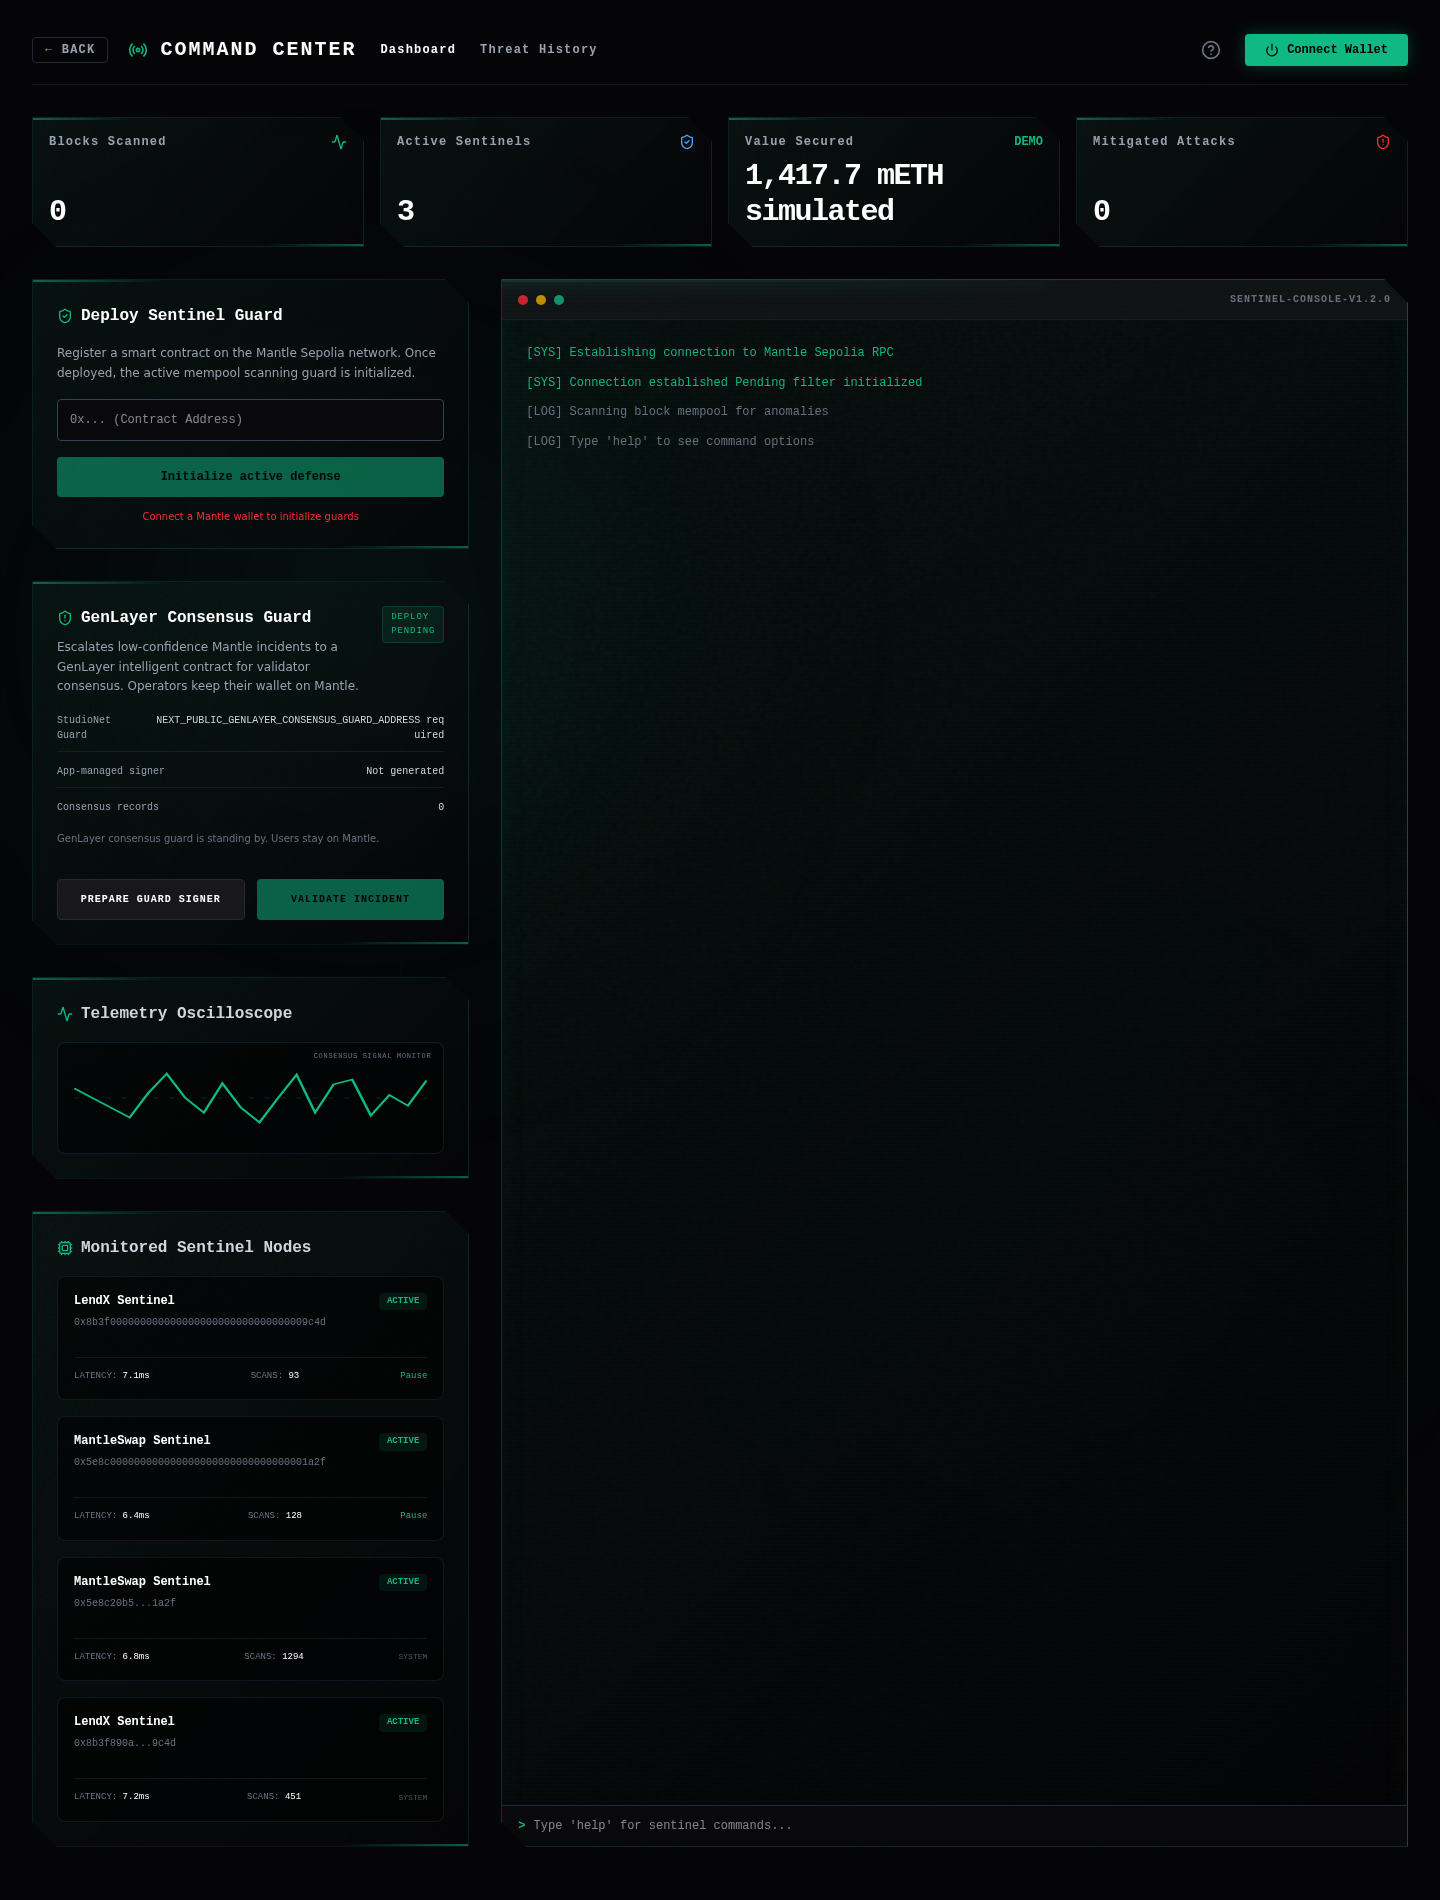
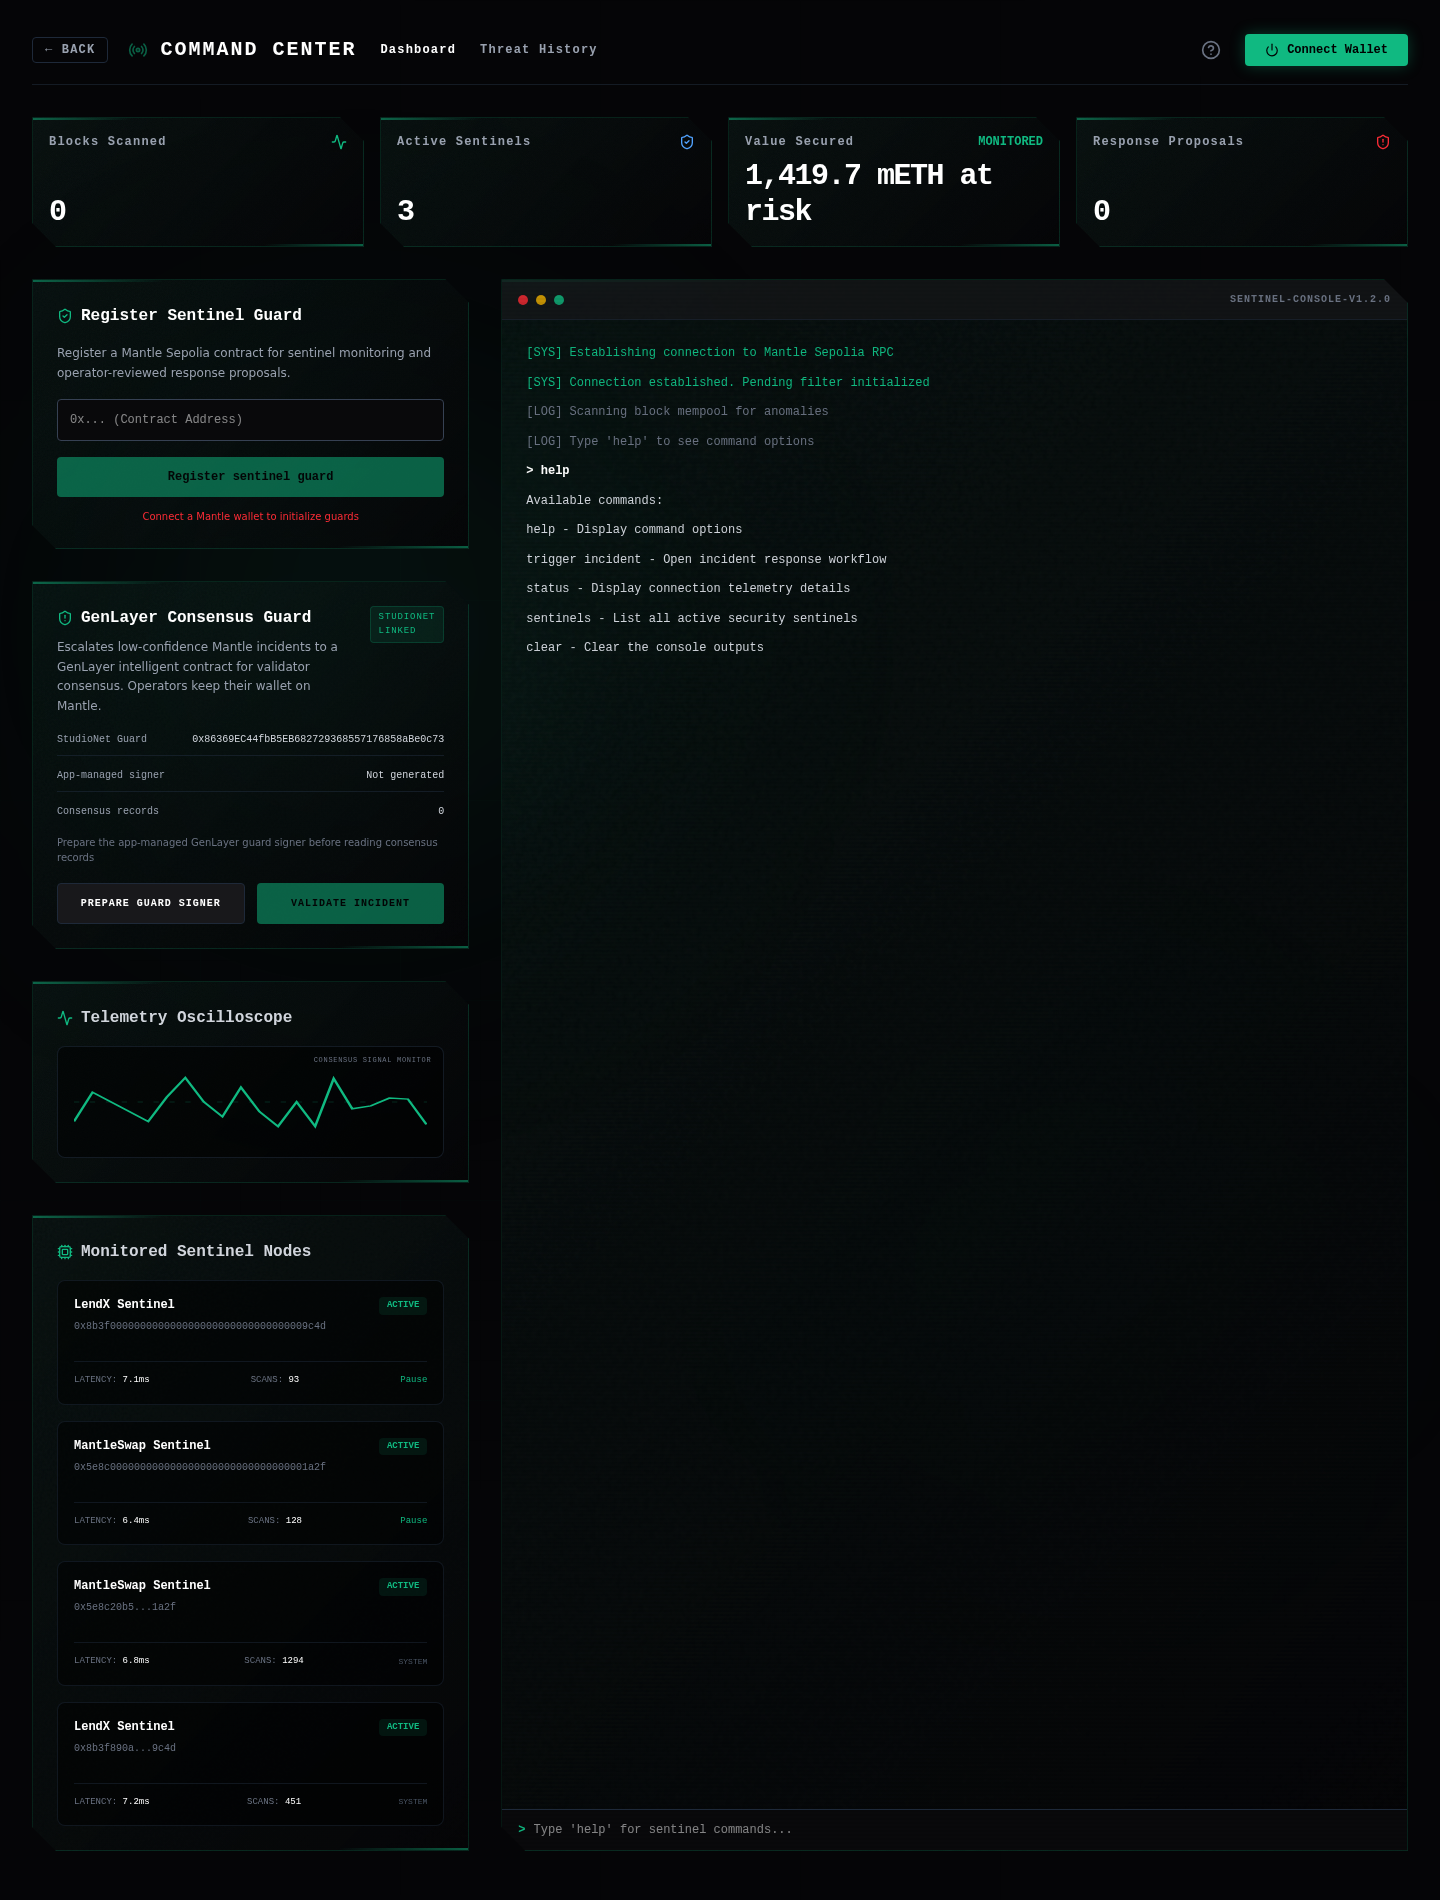
polish: tighten final product presentation

diff --git a/frontend/src/app/page.tsx b/frontend/src/app/page.tsx
@@ -150,15 +150,6 @@ export default function LandingPage() {
   const handleCommandCenterAccess = () => {
     setIsLaunchingCommandCenter(true);
     window.sessionStorage.setItem('breachresponse_launching_command_center', 'true');
-    if (!isConnected) {
-      if (!injectedConnector) return;
-      connect({ connector: injectedConnector });
-      return;
-    }
-    if (!isCorrectNetwork && switchChain) {
-      switchChain({ chainId: mantleSepoliaTestnet.id });
-      return;
-    }
     navigateToAppPath(window.location, DASHBOARD_PATH);
   };
 
@@ -326,7 +317,7 @@ export default function LandingPage() {
               Breach Response
             </h1>
             <p className="text-lg md:text-xl text-gray-300 max-w-2xl mx-auto drop-shadow-[0_2px_4px_rgba(0,0,0,0.8)] font-sans">
-              AI-assisted incident response for Mantle smart contracts
+              AI-assisted incident response for suspicious Mantle contract activity
             </p>
           </motion.div>
 
@@ -410,7 +401,7 @@ export default function LandingPage() {
                   <div>
                     <h3 className="text-white font-bold mb-4 flex items-center gap-2 text-lg"><Shield className="w-5 h-5 text-[#10B981]" /> Defense Matrix</h3>
                     <p className="text-sm text-gray-400 mb-8 leading-relaxed font-sans">
-                      LLM analysis, operator approval, and GenLayer consensus checks are wired for scoped emergency response.
+                      LLM analysis, operator approval, and GenLayer consensus checks turn suspicious activity into scoped response proposals.
                     </p>
                   </div>
                   <button
@@ -441,7 +432,7 @@ export default function LandingPage() {
         <div className="container mx-auto px-6 relative z-10 text-center">
           <h2 className="text-3xl md:text-4xl font-bold text-white mb-6">Pipeline Execution</h2>
           <p className="text-gray-400 font-sans max-w-2xl mx-auto mb-16">
-            Three sequential stages of real-time smart contract defense on Mantle Network
+            Three controlled stages for reviewing suspicious smart contract activity on Mantle
           </p>
         </div>
         <div className="relative grid grid-cols-1 md:grid-cols-3 gap-12 md:gap-8 items-start">
@@ -456,9 +447,9 @@ export default function LandingPage() {
               </svg>
             </div>
             <span className="text-xs text-[#10B981] font-bold tracking-widest mb-2 block uppercase">01 / Monitor</span>
-            <h3 className="text-lg font-bold text-white mb-3">Mempool Scan</h3>
+            <h3 className="text-lg font-bold text-white mb-3">Runtime Signal Scan</h3>
             <p className="text-xs text-gray-400 font-sans leading-relaxed">
-              We monitor the unconfirmed transactions of Mantle Network, inspecting operations before block generation
+              The sentinel watches Mantle RPC activity and flags unusual contract behavior for review
             </p>
           </div>
           <div className="flex flex-col items-center text-center px-4 relative">
@@ -478,7 +469,7 @@ export default function LandingPage() {
               </svg>
             </div>
             <span className="text-xs text-[#10B981] font-bold tracking-widest mb-2 block uppercase">02 / Formulate</span>
-            <h3 className="text-lg font-bold text-white mb-3">AI Formulation</h3>
+            <h3 className="text-lg font-bold text-white mb-3">AI Incident Triage</h3>
             <p className="text-xs text-gray-400 font-sans leading-relaxed">
               If an exploit pattern is identified, the sentinel agent produces a scoped response proposal for operator review
             </p>
@@ -494,10 +485,10 @@ export default function LandingPage() {
                 <rect x="9.5" y="9.5" width="5" height="5" rx="0.5" stroke="currentColor" strokeWidth="1.2" fill="currentColor" fillOpacity="0.2" className="origin-center animate-[ping_2s_cubic-bezier(0,0,0.2,1)_infinite]" />
               </svg>
             </div>
-            <span className="text-xs text-[#10B981] font-bold tracking-widest mb-2 block uppercase">03 / Intercept</span>
-            <h3 className="text-lg font-bold text-white mb-3">Payload Dispatch</h3>
+            <span className="text-xs text-[#10B981] font-bold tracking-widest mb-2 block uppercase">03 / Approve</span>
+            <h3 className="text-lg font-bold text-white mb-3">Approval Routing</h3>
             <p className="text-xs text-gray-400 font-sans leading-relaxed">
-              The mitigation proposal is routed to a wallet, multisig, or approved policy path before execution
+              The response proposal is routed to wallet, multisig, or policy-controlled approval before any execution
             </p>
           </div>
         </div>
@@ -516,8 +507,8 @@ export default function LandingPage() {
               <div className="w-12 h-12 bg-gray-900 rounded-xl flex items-center justify-center mb-6 border border-gray-800 text-[#10B981]">
                 <Activity className="w-6 h-6" />
               </div>
-              <h3 className="text-xl font-bold text-white mb-3">Mempool Interception</h3>
-              <p className="text-sm text-gray-400 leading-relaxed font-sans">Deep inspection of unconfirmed transactions on the Mantle Sepolia network using strictly defined Web3.py filters</p>
+              <h3 className="text-xl font-bold text-white mb-3">Runtime Monitoring</h3>
+              <p className="text-sm text-gray-400 leading-relaxed font-sans">Mantle Sepolia telemetry and protocol events are normalized into reviewable security signals</p>
             </div>
             <div className="mt-8 pt-6 border-t border-gray-800/60 font-mono text-[10px] space-y-2 text-gray-500">
               <div className="flex justify-between"><span>SCAN_RATE</span> <span className="text-gray-400">Mantle RPC</span></div>
@@ -529,8 +520,8 @@ export default function LandingPage() {
               <div className="w-12 h-12 bg-gray-900 rounded-xl flex items-center justify-center mb-6 border border-gray-800 text-[#10B981]">
                 <Cpu className="w-6 h-6" />
               </div>
-              <h3 className="text-xl font-bold text-white mb-3">AI Payload Formulation</h3>
-              <p className="text-sm text-gray-400 leading-relaxed font-sans">Dynamically formulates complex pause and response transaction payloads the moment an anomaly crosses the threshold</p>
+              <h3 className="text-xl font-bold text-white mb-3">AI Incident Triage</h3>
+              <p className="text-sm text-gray-400 leading-relaxed font-sans">Converts anomaly evidence into a threat class, confidence score, and scoped response proposal</p>
             </div>
             <div className="mt-8 pt-6 border-t border-gray-800/60 font-mono text-[10px] space-y-2 text-gray-500">
               <div className="flex justify-between"><span>MODEL</span> <span className="text-gray-400">OpenAI-compatible</span></div>
@@ -547,12 +538,12 @@ export default function LandingPage() {
             </div>
             <div className="mt-8 pt-6 border-t border-gray-800/60 font-mono text-[10px] space-y-2 text-gray-500">
               <div className="flex justify-between">
-                <span>PAUSE_TIME</span>
-                <span className="text-gray-400">1 block</span>
+                <span>APPROVAL</span>
+                <span className="text-gray-400">Manual first</span>
               </div>
               <div className="flex justify-between">
-                <span>DISPATCH</span>
-                <span className="text-[#10B981]">AUTO / MANUAL</span>
+                <span>POLICY</span>
+                <span className="text-[#10B981]">Allowlisted actions</span>
               </div>
             </div>
           </motion.div>
@@ -706,10 +697,10 @@ export default function LandingPage() {
       <section className="py-20 px-8 md:px-16 max-w-6xl mx-auto relative z-40 bg-transparent border-t border-gray-900/30">
         <div className="relative py-16 px-8 md:px-16 flex flex-col items-center text-center">
           <h2 className="text-3xl md:text-5xl font-bold text-white mb-6 tracking-tight">
-            Neutralize threats before block finality
+            Review suspicious activity before response windows close
           </h2>
           <p className="text-base text-gray-400 max-w-xl mx-auto mb-10 font-sans leading-relaxed">
-            Attach sentinels to monitor, pause, and safeguard your smart contracts on Mantle Network.
+            Attach sentinels to monitor Mantle contracts, prepare scoped responses, and keep high-risk actions behind approval.
           </p>
 
           <div className="flex flex-col sm:flex-row gap-4 w-full sm:w-auto items-center justify-center">
@@ -748,7 +739,7 @@ export default function LandingPage() {
               <span className="text-lg font-bold tracking-widest text-white">BREACH RESPONSE</span>
             </div>
             <p className="text-gray-500 text-sm leading-relaxed font-sans max-w-xs">
-              AI-assisted incident response for Mantle smart contracts
+              AI-assisted incident response for suspicious Mantle contract activity
             </p>
           </div>
           

diff --git a/frontend/src/app/dashboard/page.tsx b/frontend/src/app/dashboard/page.tsx
@@ -35,7 +35,7 @@ const BootSequence = () => {
   const lines = [
     'MANTLE RPC LINKED',
     'SENTINEL REGISTRY FOUND',
-    'GENLAYER CONSENSUS GUARD READY',
+    'EXTERNAL CONSENSUS GUARD READY',
     'COMMAND CENTER ONLINE',
   ];
 
@@ -78,7 +78,7 @@ export default function Dashboard() {
   
   const [terminalLines, setTerminalLines] = useState<string[]>([
     "[SYS] Establishing connection to Mantle Sepolia RPC",
-    "[SYS] Connection established Pending filter initialized",
+    "[SYS] Connection established. Pending filter initialized",
     "[LOG] Scanning block mempool for anomalies",
     "[LOG] Type 'help' to see command options"
   ]);
@@ -247,7 +247,7 @@ export default function Dashboard() {
         } else if (payload.type === 'ALERT') {
           // Executed response alert
           const log = payload.data;
-          setTerminalLines(prev => capTerminal([...prev, `[ALERT] Response executed for ${log.protocol}. Type: ${log.type}. Metric: ${log.gasSaved}`]));
+          setTerminalLines(prev => capTerminal([...prev, `[ALERT] Response proposal recorded for ${log.protocol}. Type: ${log.type}. Metric: ${log.gasSaved}`]));
         }
       } catch (err) {
         console.warn("SSE Parse Error", err);
@@ -582,10 +582,10 @@ export default function Dashboard() {
           <div id="ob-sentinel" className="sci-fi-panel p-6 relative overflow-hidden transition-all duration-500">
             <h2 className="text-base font-bold mb-4 flex items-center gap-2">
               <ShieldCheck className="w-4 h-4 text-[#10B981]" />
-              Deploy Sentinel Guard
+              Register Sentinel Guard
             </h2>
             <p className="text-gray-400 text-xs mb-4 leading-relaxed font-sans">
-              Register a smart contract on the Mantle Sepolia network. Once deployed, the active mempool scanning guard is initialized.
+              Register a Mantle Sepolia contract for sentinel monitoring and operator-reviewed response proposals.
             </p>
             <input 
               type="text" 
@@ -599,9 +599,9 @@ export default function Dashboard() {
               disabled={isPending || !isConnected}
               className={`w-full bg-[#10B981] text-black font-bold py-3 rounded text-xs transition-all ${isPending || !isConnected ? 'opacity-50 cursor-not-allowed' : 'hover:bg-green-400 hover:shadow-[0_0_15px_rgba(16,185,129,0.3)]'}`}
             >
-              {isPending ? 'Executing Transaction...' : 'Initialize active defense'}
+              {isPending ? 'Submitting registration...' : 'Register sentinel guard'}
             </button>
-            {isSuccess && <p className="text-[#10B981] mt-3 text-[10px] text-center">Protocol registered on Mantle Sepolia!</p>}
+            {isSuccess && <p className="text-[#10B981] mt-3 text-[10px] text-center">Sentinel registered on Mantle Sepolia</p>}
             {!isConnected && <p className="text-red-500 mt-3 text-[10px] text-center font-sans">Connect a Mantle wallet to initialize guards</p>}
             {!isConnected && connectError && (
               <p className="text-yellow-400 mt-2 text-[10px] text-center font-sans">
@@ -623,7 +623,7 @@ export default function Dashboard() {
                 </p>
               </div>
               <span className="text-[9px] uppercase tracking-widest text-[#10B981] bg-[#10B981]/10 border border-[#10B981]/20 rounded px-2 py-1">
-                {GENLAYER_CONSENSUS_GUARD_ADDRESS ? 'Contract linked' : 'Deploy pending'}
+                {GENLAYER_CONSENSUS_GUARD_ADDRESS ? 'StudioNet linked' : 'Address required'}
               </span>
             </div>
 

diff --git a/frontend/src/app/history/page.tsx b/frontend/src/app/history/page.tsx
@@ -21,7 +21,7 @@ interface TransactionLog {
 
 const initialLogs: TransactionLog[] = [
   {
-    id: 'demo-1',
+    id: 'incident-1',
[1 lines of base64/hex data omitted]
     protocol: 'MantleSwap',
     type: 'Reentrancy',
@@ -30,7 +30,7 @@ const initialLogs: TransactionLog[] = [
     timestamp: new Date(Date.now() - 120000).toISOString(),
   },
   {
-    id: 'demo-2',
+    id: 'incident-2',
[1 lines of base64/hex data omitted]
     protocol: 'LendX Protocol',
     type: 'Normal Transfer',
@@ -39,7 +39,7 @@ const initialLogs: TransactionLog[] = [
     timestamp: new Date(Date.now() - 300000).toISOString(),
   },
   {
-    id: 'demo-3',
+    id: 'incident-3',
[1 lines of base64/hex data omitted]
     protocol: 'YieldFlow',
     type: 'Oracle Manipulation',

diff --git a/frontend/src/app/api/vault/status/route.ts b/frontend/src/app/api/vault/status/route.ts
@@ -14,7 +14,7 @@ export async function GET() {
     const rpcUrl = process.env.MANTLE_RPC_URL || "https://rpc.sepolia.mantle.xyz";
     const provider = new ethers.JsonRpcProvider(rpcUrl);
     
-    // Hardcoded TargetVault address for our demo
+    // Default TargetVault address used by the vault status endpoint
     const targetVaultAddress = "0x9d9b602CFe69cfF9706EAc399808E84682ce94FB";
     const targetVault = new ethers.Contract(targetVaultAddress, vaultAbi, provider);
 

diff --git a/README.md b/README.md
@@ -1,6 +1,6 @@
 # BreachResponse
 
-Mantle-specific runtime audit assistant for suspicious onchain activity.
+AI-assisted incident response for suspicious Mantle contract activity.
 
 ![Mantle Sepolia](https://img.shields.io/badge/Mantle-Sepolia_Testnet-10B981?style=flat-square&logo=ethereum)
 ![Next.js](https://img.shields.io/badge/Next.js-16.2-black?style=flat-square&logo=next.js)
@@ -8,7 +8,9 @@ Mantle-specific runtime audit assistant for suspicious onchain activity.
 ![Solidity](https://img.shields.io/badge/Solidity-0.8.24-363636?style=flat-square&logo=solidity)
 ![License](https://img.shields.io/badge/License-MIT-blue.svg?style=flat-square)
 
-BreachResponse helps Mantle builders review unusual contract behavior, understand possible risk, and turn raw onchain signals into structured response context. The platform combines a Mantle-aware monitoring agent, Solidity review contracts, and a Command Center UI for controlled review and approval workflows.
+Live Command Center: http://43.131.9.176:8900
+
+BreachResponse watches Mantle contract activity, turns suspicious signals into structured incident context, and keeps high-risk response actions behind operator approval. The platform combines a Mantle-aware monitoring agent, Solidity review contracts, and a Command Center UI for controlled review and approval workflows.
 
 ![BreachResponse Command Center](./docs/assets/hero.png)
 